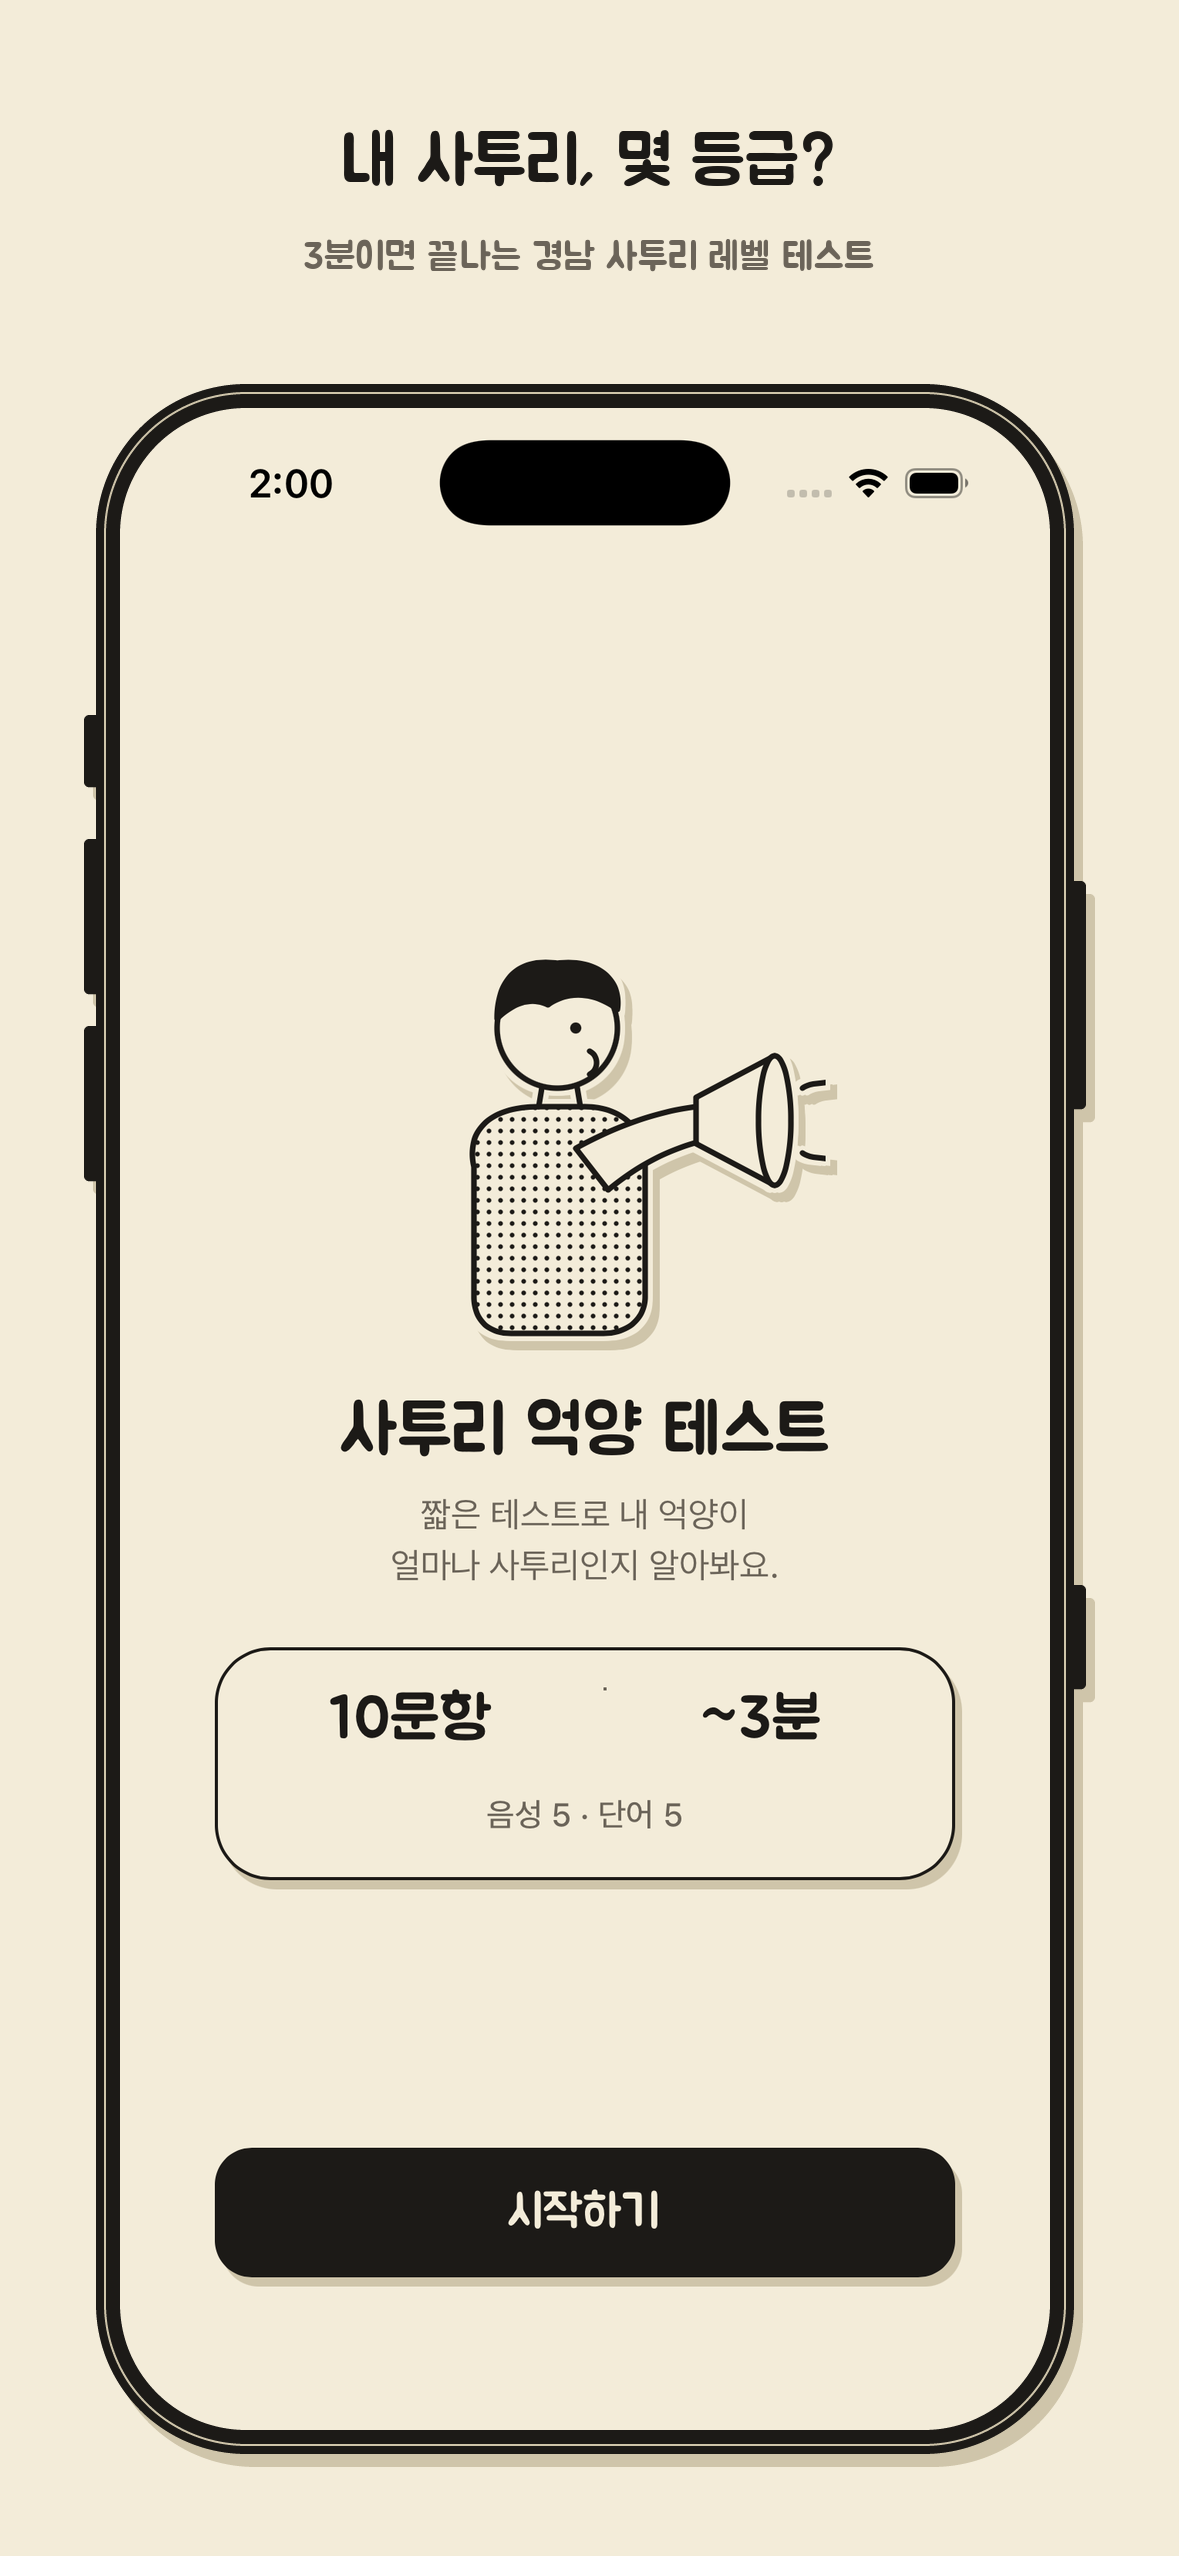
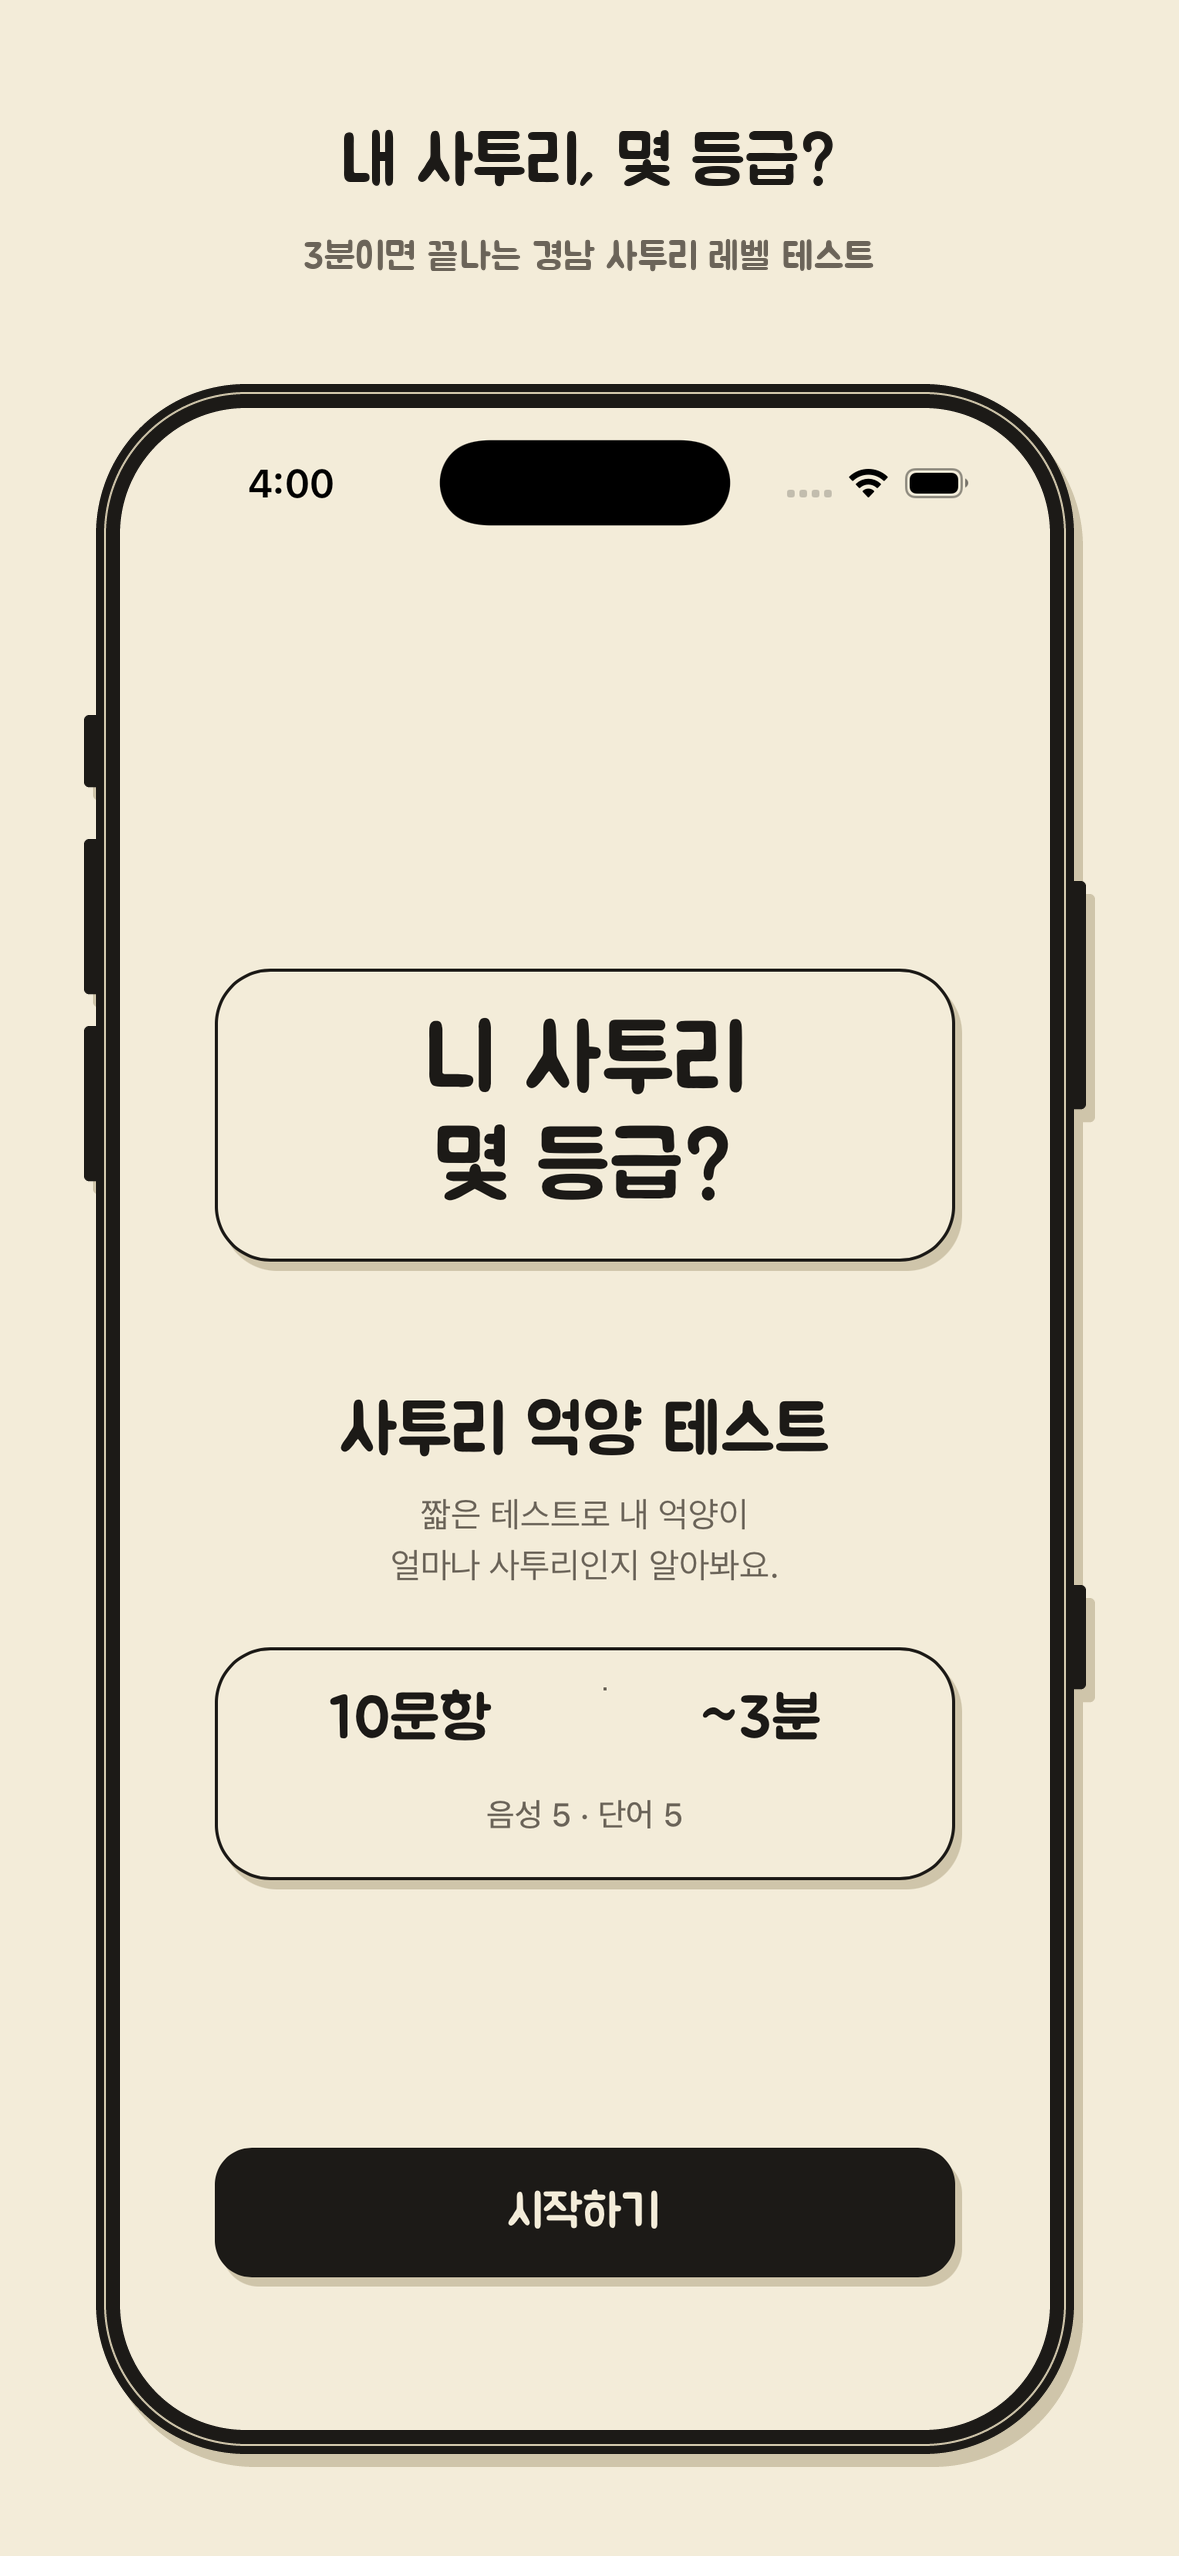
KAN-178 인트로·분석 대기 화면 일러스트를 텍스트 히어로로 - "니 사투리 몇 등급?" / "분석 중입니다"
- web/src/ui/TextHero.tsx + components.css: Jua 40 잉크, 크림 종이 조각(테두리·오프셋 그림자). IntroHero·WaitingHero SVG 제거
- 스토어 스크린샷 인트로 원본(Android·iOS) 재촬영, 프레임 재생성

Claude-Session: https://claude.ai/code/session_01Nud2Q8pYYmbEKkf6aeyY5Q

diff --git a/web/src/ui/components.css b/web/src/ui/components.css
@@ -283,10 +283,13 @@
 }
 
 /*
- * 화면을 여는 일러스트 자리 (KAN-161 3단계). 그림 자체는 `ui/illustrations/`의 SVG가 갖고
+ * 화면을 여는 히어로 자리 (KAN-161 3단계). 안에 서는 것이 SVG든 그림 파일이든 글자든
  * 여기서 하는 일은 높이를 잡아 두는 것뿐이다 — 시안이 화면마다 다른 높이(192·176·168)를
- * 주므로 값은 화면이 변수로 넘긴다. 높이를 미리 잡아 두면 그림이 그려지기 전후로 아래
+ * 주므로 값은 화면이 변수로 넘긴다. 높이를 미리 잡아 두면 안엣것이 그려지기 전후로 아래
  * 요소가 오르내리지 않는다.
+ *
+ * 인트로·대기 화면은 그림 대신 `.text-hero`가 든다 (KAN-178). 슬롯 높이를 건드리지 않은
+ * 것은 의도다 — 글자 조각이 그림보다 낮아도 아래 제목·카드는 있던 자리에 그대로 남는다.
  */
 .illustration {
   display: flex;
@@ -301,6 +304,35 @@
 
 .illustration--waiting {
   height: 176px;
+}
+
+/*
+ * 그림 자리에 서는 글자 한 줄 (KAN-178). 종이 조각 한 장이다 — 테두리 1.5px·크림 면·오프셋
+ * 그림자는 대사 카드(`.prompt-card`)와 같은 값을 쓴다. 이 화면에서 새로 만든 모양이 아니라
+ * 이미 있는 종이의 두께를 그대로 빌려 와야 한 화면에 종이가 두 종류로 보이지 않는다.
+ *
+ * Jua 40(`--text-display`)은 팔레트에서 가장 큰 글자다. 바로 아래 제목이 30·26이라
+ * 이보다 작으면 히어로가 아니라 제목이 둘인 화면이 된다.
+ *
+ * `keep-all`은 한국어에서 필수다 — 기본값이면 "등급?"이 낱말 가운데서 잘린다. `balance`는
+ * 두 줄로 넘어갈 때 줄 길이를 맞춘다("니 사투리 / 몇 등급?"). 지원하지 않는 브라우저는
+ * 평범하게 흘려 담을 뿐이라 깨지지 않는다.
+ */
+.text-hero {
+  margin: 0;
+  padding: var(--space-4) var(--space-6);
+  border: 1.5px solid var(--color-border);
+  border-radius: var(--radius-xl);
+  background: var(--color-card);
+  box-shadow: var(--shadow-prompt);
+  font-family: var(--font-display);
+  font-size: var(--text-display);
+  font-weight: var(--weight-normal);
+  line-height: var(--leading-tight);
+  color: var(--color-foreground);
+  text-align: center;
+  word-break: keep-all;
+  text-wrap: balance;
 }
 
 /*

diff --git a/web/src/analysis/AnalysisWaitingScreen.tsx b/web/src/analysis/AnalysisWaitingScreen.tsx
@@ -26,7 +26,7 @@
 import { Fragment, useEffect, useRef } from 'react'
 import { Button, StatusBlock } from '../ui'
 import { CheckSmallIcon } from '../ui/icons'
-import { WaitingHero } from '../ui/illustrations/WaitingHero'
+import { TextHero } from '../ui/TextHero'
 import { ANALYSIS_STAGES, analysisStage } from './analysisStage'
 import type { VoiceItem } from '../progress/testDefinition'
 import type { FetchLike } from '../progress/fetchTestDefinition'
@@ -241,13 +241,22 @@ export function AnalysisWaitingScreen({
       <div className={waiting ? 'analysis-body analysis-body--centered' : 'analysis-body'}>
         {waiting && (
           <div className="analysis-waiting">
+            {/*
+              계단 일러스트를 걷어내고 글자를 세웠다 (KAN-178). 그림 자리를 그대로 쓰므로
+              아래 제목·단계 목록은 있던 자리에 남는다.
+            */}
             <div className="illustration illustration--waiting">
-              <WaitingHero />
+              <TextHero>분석 중입니다</TextHero>
             </div>
             {/*
               대기 문구가 StatusBlock의 본문에서 제목(h1)으로 올라왔다. 이 화면에는 다른 제목이
               없어 이 문장이 곧 화면의 이름이고, 시안도 히어로 아래 가장 큰 글자로 둔다.
               문구 자체는 그대로라 대기 화면을 기다리는 테스트가 그대로 통과한다.
+
+              히어로가 생긴 뒤에도 이 제목을 남긴 이유는 둘이 다른 말을 하기 때문이다:
+              히어로는 "분석 중"이라는 상태 하나를 붙박이로 말하고, 이 줄은 그 안에서
+              무엇이 진행 중인지(만드는 중 / 다 되어 넘어가는 중)를 갈아 끼운다. 히어로가
+              `aria-hidden`이라 스크린 리더에는 이 제목 한 줄만 화면 이름으로 들어간다.
             */}
             <h1 className="type-headline">
               {status.kind === 'READY' ? '결과 화면으로 이동합니다' : '결과를 만들고 있어요'}

diff --git a/web/src/intro/IntroScreen.tsx b/web/src/intro/IntroScreen.tsx
@@ -3,7 +3,7 @@ import { requestMicrophonePermission, type MicPermission } from '../audio/microp
 import { detectStorePlatform } from '../audio/storeLink'
 import { requestMicPermission } from '../bridge/bridge'
 import { Button } from '../ui'
-import { IntroHero } from '../ui/illustrations/IntroHero'
+import { TextHero } from '../ui/TextHero'
 import {
   ESTIMATED_MINUTES,
   START_FAILED_MESSAGE,
@@ -109,12 +109,12 @@ export function IntroScreen({
     <main className="screen">
       <div className="screen__body">
         {/*
-          이모지 히어로(🎯⭐✨)를 오려 낸 종이 일러스트로 갈았다 (KAN-161 3단계). 이모지는
-          시스템이 자기 색으로 그려서 잉크 한 색 화면에 유일한 색조로 남았고, 기기마다 다른
-          그림이 나왔다 — 그림을 우리가 그리면 둘 다 사라진다.
+          종이 일러스트(확성기를 든 사람)를 걷어내고 글자를 세웠다 (KAN-178). 그림은 이 앱이
+          무엇을 하는 곳인지 말하지 않았다 — 첫 화면에서 사용자가 알아야 할 것은 "여기서
+          내 사투리 등급이 나온다"이고, 그건 그리는 것보다 적는 편이 빠르다.
         */}
         <div className="illustration illustration--intro">
-          <IntroHero />
+          <TextHero>니 사투리 몇 등급?</TextHero>
         </div>
 
         <div style={{ display: 'flex', flexDirection: 'column', gap: 'var(--space-2)' }}>

diff --git a/web/src/ui/TextHero.tsx b/web/src/ui/TextHero.tsx
@@ -1,0 +1,27 @@
+/**
+ * 텍스트 히어로 — 그림 대신 서는 한 마디 (KAN-178).
+ *
+ * 인트로·분석 대기 화면을 열던 종이 일러스트(`illustrations/IntroHero`·`WaitingHero`)를
+ * 걷어낸 자리다. 오려 낸 사람 그림은 예쁘긴 해도 화면이 무엇을 하는 곳인지는 말하지
+ * 않았고, 스토어 스크린샷처럼 축소된 자리에서는 선이 뭉개져 무엇을 그린 것인지도 읽히지
+ * 않았다 — 같은 자리에 큰 글자 한 줄을 세우면 화면을 열자마자 문장이 먼저 온다.
+ *
+ * `aria-hidden`이 기본인 이유는 IntroHero와 같다: 옆에 있는 h1이 이미 화면 이름을 말한다.
+ * 그림이든 글자든 장식에 라벨이 붙으면 스크린 리더가 같은 화면을 두 번 소개한다.
+ */
+
+import type { ReactNode } from 'react'
+
+export interface TextHeroProps {
+  children: ReactNode
+  /** 이 문구를 대신 읽어 줄 제목이 옆에 없을 때만 false로 준다 */
+  'aria-hidden'?: boolean
+}
+
+export function TextHero({ children, 'aria-hidden': ariaHidden = true }: TextHeroProps) {
+  return (
+    <p className="text-hero" aria-hidden={ariaHidden}>
+      {children}
+    </p>
+  )
+}

diff --git a/web/src/analysis/AnalysisWaitingScreen.test.tsx b/web/src/analysis/AnalysisWaitingScreen.test.tsx
@@ -524,3 +524,15 @@ describe('일시적 오류', () => {
     expect(screen.getByText('결과를 만들고 있어요')).toBeInTheDocument()
   })
 })
+
+describe('텍스트 히어로 (KAN-178)', () => {
+  it('그림 대신 "분석 중입니다"가 서고, 진행 상태를 말하는 제목은 그대로 남는다', async () => {
+    await renderScreen({
+      fetchImpl: fetchFor({ analyses: () => jsonResponse(200, statusesBody(Array(5).fill('PROCESSING'))) }),
+    })
+
+    expect(screen.getByText('분석 중입니다')).toBeInTheDocument()
+    // 히어로는 "분석 중" 한 상태를 붙박이로 말하고, 제목은 그 안에서 무엇이 진행 중인지를 말한다
+    expect(screen.getByRole('heading', { level: 1, name: '결과를 만들고 있어요' })).toBeInTheDocument()
+  })
+})

diff --git a/web/src/intro/IntroScreen.test.tsx b/web/src/intro/IntroScreen.test.tsx
@@ -124,3 +124,13 @@ describe('IntroScreen — 마이크 게이트 (KAN-56)', () => {
     expect(screen.getByRole('button', { name: '시작하기' })).toBeInTheDocument()
   })
 })
+
+describe('IntroScreen — 텍스트 히어로 (KAN-178)', () => {
+  it('그림 대신 "니 사투리 몇 등급?"이 서고, 제목은 그대로 남는다', () => {
+    render(<IntroScreen requestWebPermission={permissionStub('granted')} />)
+
+    expect(screen.getByText('니 사투리 몇 등급?')).toBeInTheDocument()
+    // 히어로는 장식이라 제목을 대신하지 않는다 — 화면 이름은 여전히 h1이 말한다
+    expect(screen.getByRole('heading', { level: 1, name: '사투리 억양 테스트' })).toBeInTheDocument()
+  })
+})

diff --git a/docs/wiki/design-tokens.md b/docs/wiki/design-tokens.md
@@ -513,6 +513,24 @@ KAN-148의 AC "텍스트 대비 4.5:1"은 이제 예외 없이 지켜진다.
 결과 화면의 등급별 캐릭터(KAN-162)는 SVG가 아니라 래스터 WebP다 — 정본·생성·파생 규칙은
 `character-assets.md`.
 
+### 텍스트 히어로
+
+화면을 여는 자리에 그림 대신 서는 글자 한 줄이다 (`ui/TextHero.tsx`, `.text-hero`). 인트로
+(`니 사투리 몇 등급?`)와 분석 대기 화면(`분석 중입니다`)이 쓴다 — KAN-178에서 두 화면의 종이
+일러스트를 걷어낸 자리다. 스토어 캡처 크기로 줄면 오려 낸 선이 뭉개져 무엇을 그린 것인지
+읽히지 않았고, 읽히더라도 앱이 무엇을 하는 곳인지는 말하지 않았다.
+
+모양은 대사 카드(`.prompt-card`)에서 그대로 빌린다 — 1.5px 잉크 테두리, 크림 면, `radius-xl`,
+`shadow-prompt`. 한 화면에 종이가 두 종류로 보이지 않으려면 두께와 그늘이 같아야 한다. 글자는
+`font-display` `text-display`(40) 400이다: 바로 아래 제목이 30·26이라 이보다 작으면 히어로가
+아니라 제목이 둘인 화면이 된다.
+
+기본값이 `aria-hidden`인 이유는 옆에 있는 h1이 이미 화면 이름을 말하기 때문이다. 장식에 라벨을
+붙이면 스크린 리더가 같은 화면을 두 번 소개한다.
+
+바깥 슬롯(`.illustration--intro` 192 · `--waiting` 176)의 높이는 건드리지 않았다. 글자 조각이
+그림보다 낮아도 아래 제목·카드는 있던 자리에 그대로 남는다.
+
 ## 9. 접근성 최소선 검증
 
 | 항목 | 어떻게 보장하나 |

diff --git a/docs/wiki/app-icon-assets.md b/docs/wiki/app-icon-assets.md
@@ -220,6 +220,7 @@ xcrun simctl io booted screenshot assets/screenshots/raw/ios/01-intro.png
 - **결과 화면 등급 통일** — Android·iOS 결과 캡처가 서로 다른 등급이면 스토어에서 같은 앱으로 안 읽혀, iOS 쪽을 다시 찍어 둘 다 명예주민으로 맞췄다.
 - **Android 상태바·내비게이션 바는 자르지 않는다** — Play가 허용하고, 자르기 시작하면 기기마다 기준이 갈린다.
 - **iOS 캡처의 서체를 Android와 맞췄다** (2026-09-03) — 녹음 캡처의 대사 "밥 뭇나?"와 타이머만 iOS가 시스템 서체였다. 두 캡처가 스토어에 나란히 서면 같은 앱으로 안 읽히는 자리라 Jua를 번들하고(`ios-port.md` §3) `raw/ios/02-recording.png`를 다시 찍었다. 나머지 셋은 웹 화면이라 처음부터 Jua였다.
+- **인트로·분석 대기 화면의 일러스트를 텍스트 히어로로 갈았다** (2026-09-03) — 오려 낸 종이 그림(확성기 든 사람·계단)이 스토어 캡처 크기로 줄면 선이 뭉개져 무엇을 그린 것인지 읽히지 않았고, 읽히더라도 앱이 무엇을 하는 곳인지는 말하지 않았다. 같은 자리에 Jua 40 잉크 한 줄을 세운다 — 인트로는 `니 사투리 몇 등급?`, 대기 화면은 `분석 중입니다`. 슬롯 높이(192·176)는 그대로라 아래 요소는 움직이지 않고, `raw/{android,ios}/01-intro.png`를 다시 찍어 프레임을 재생성했다.
 
 ## 7. 이월
 
